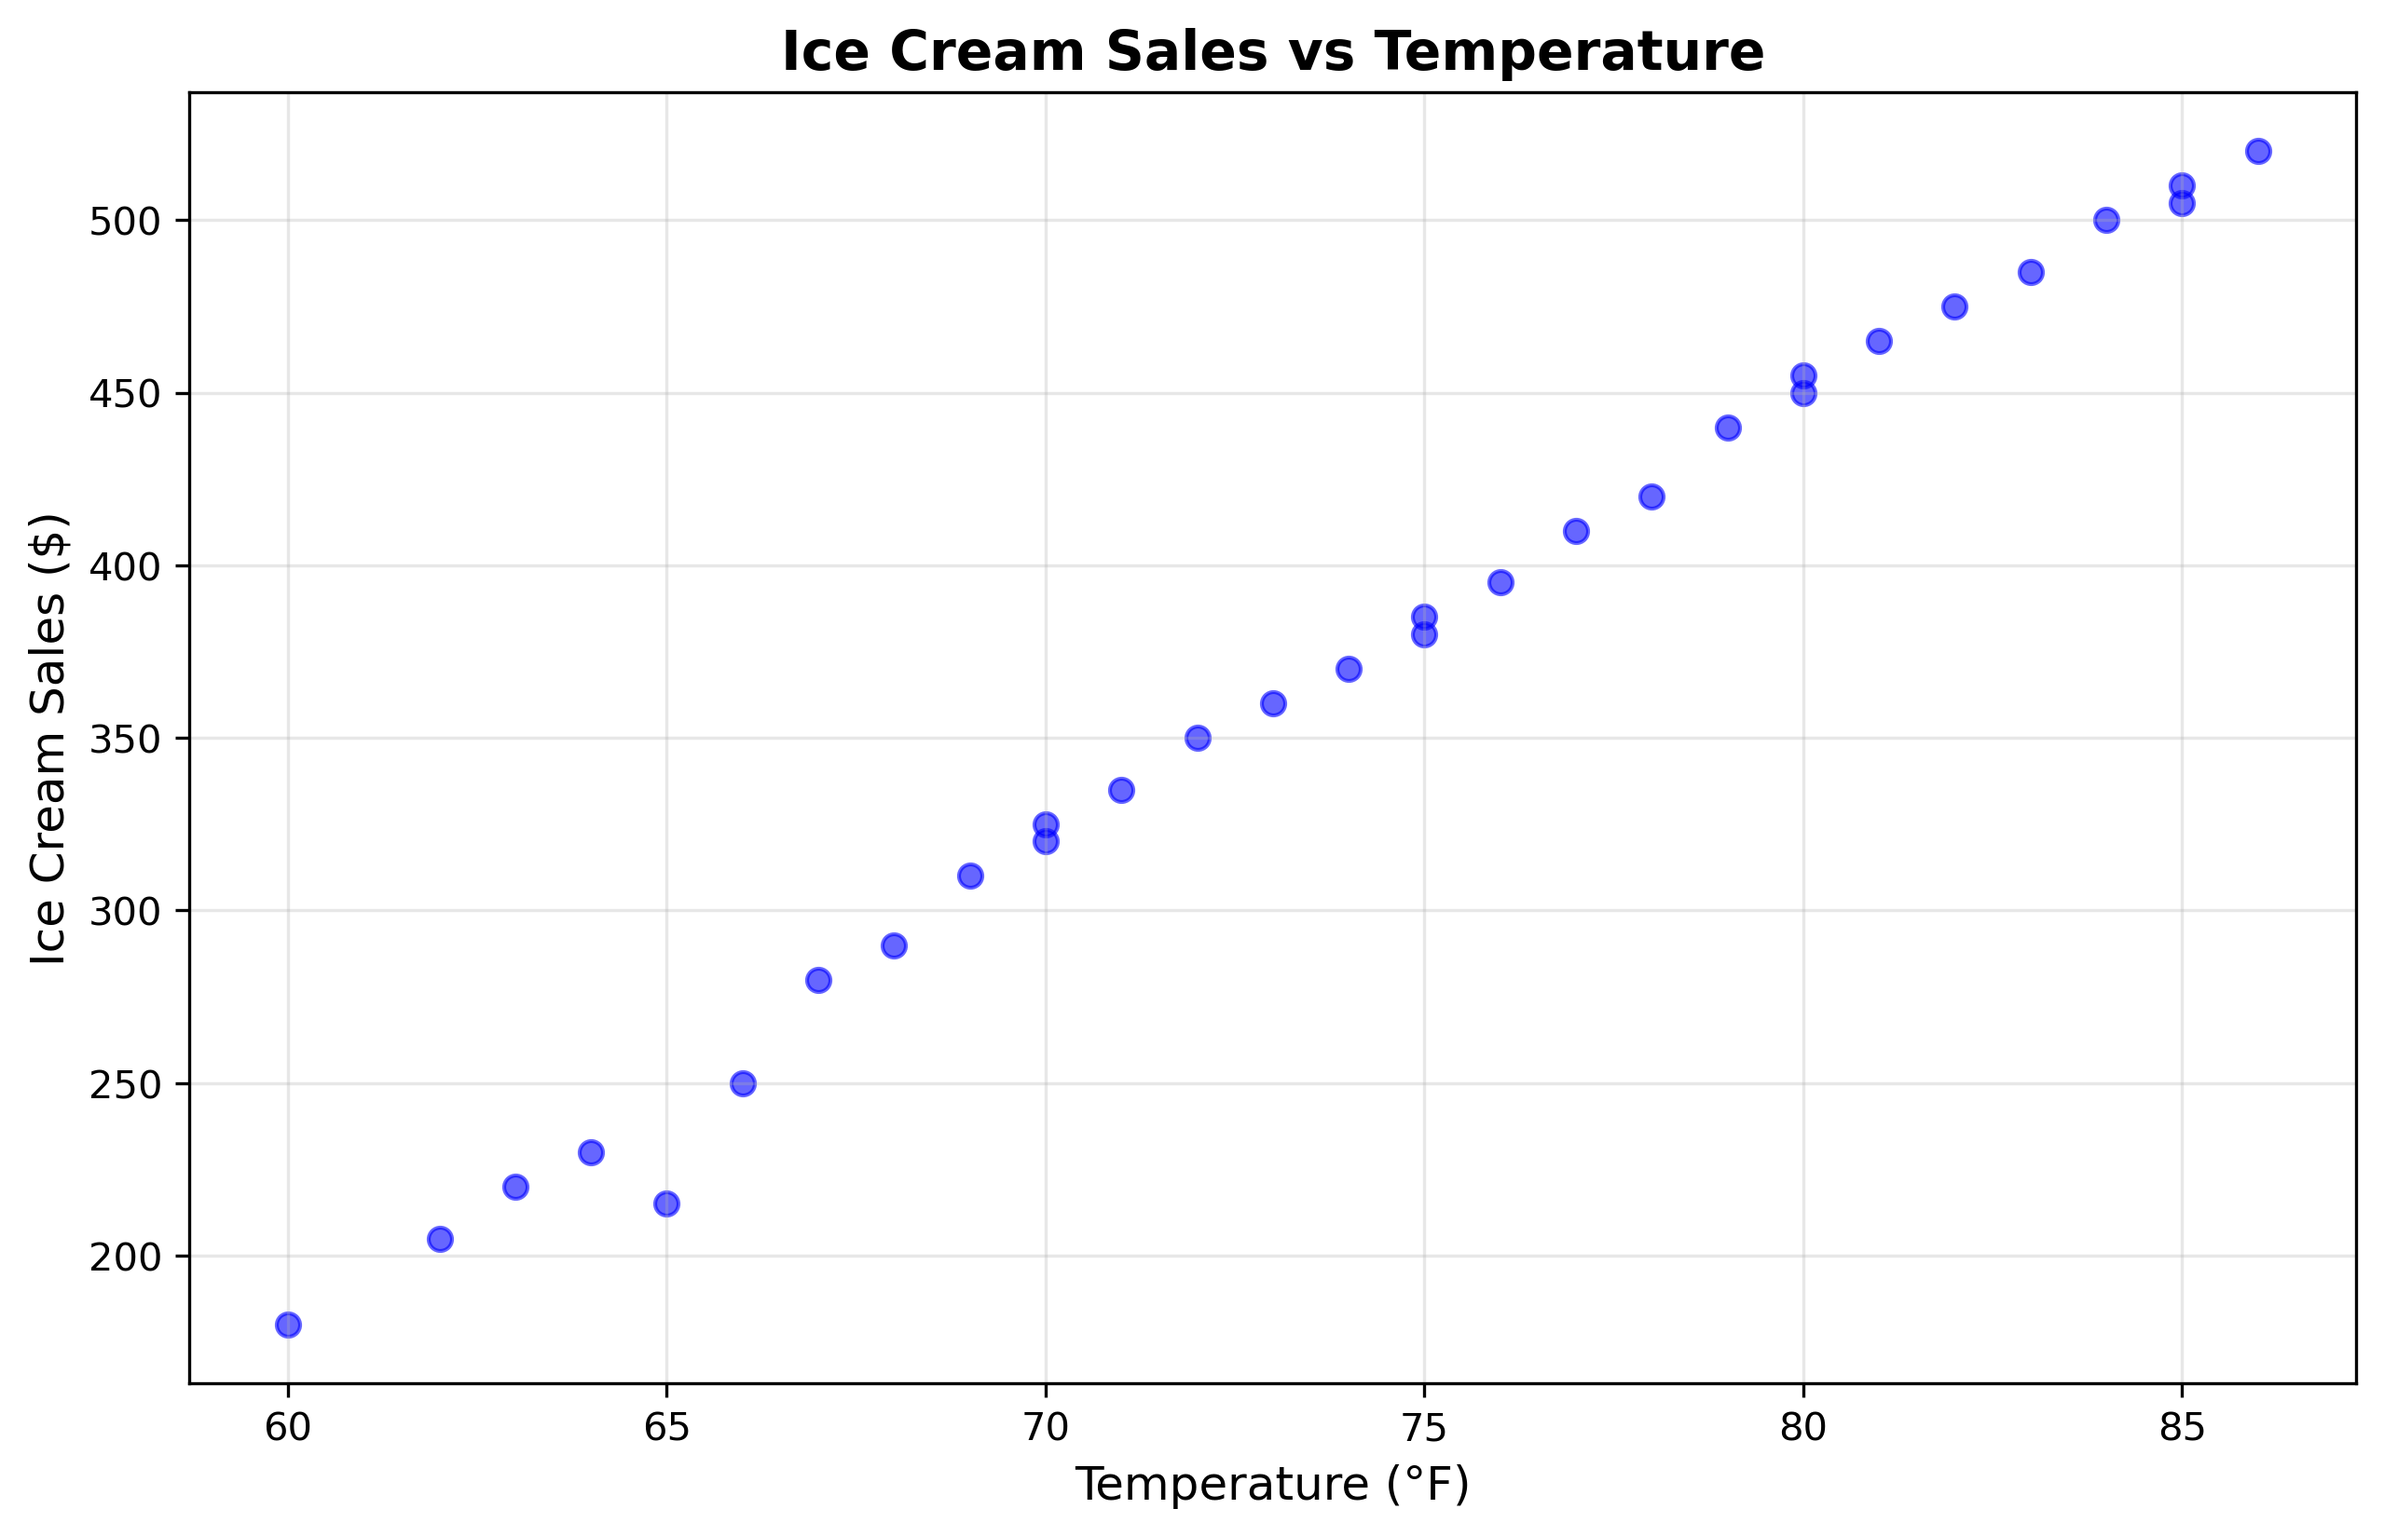
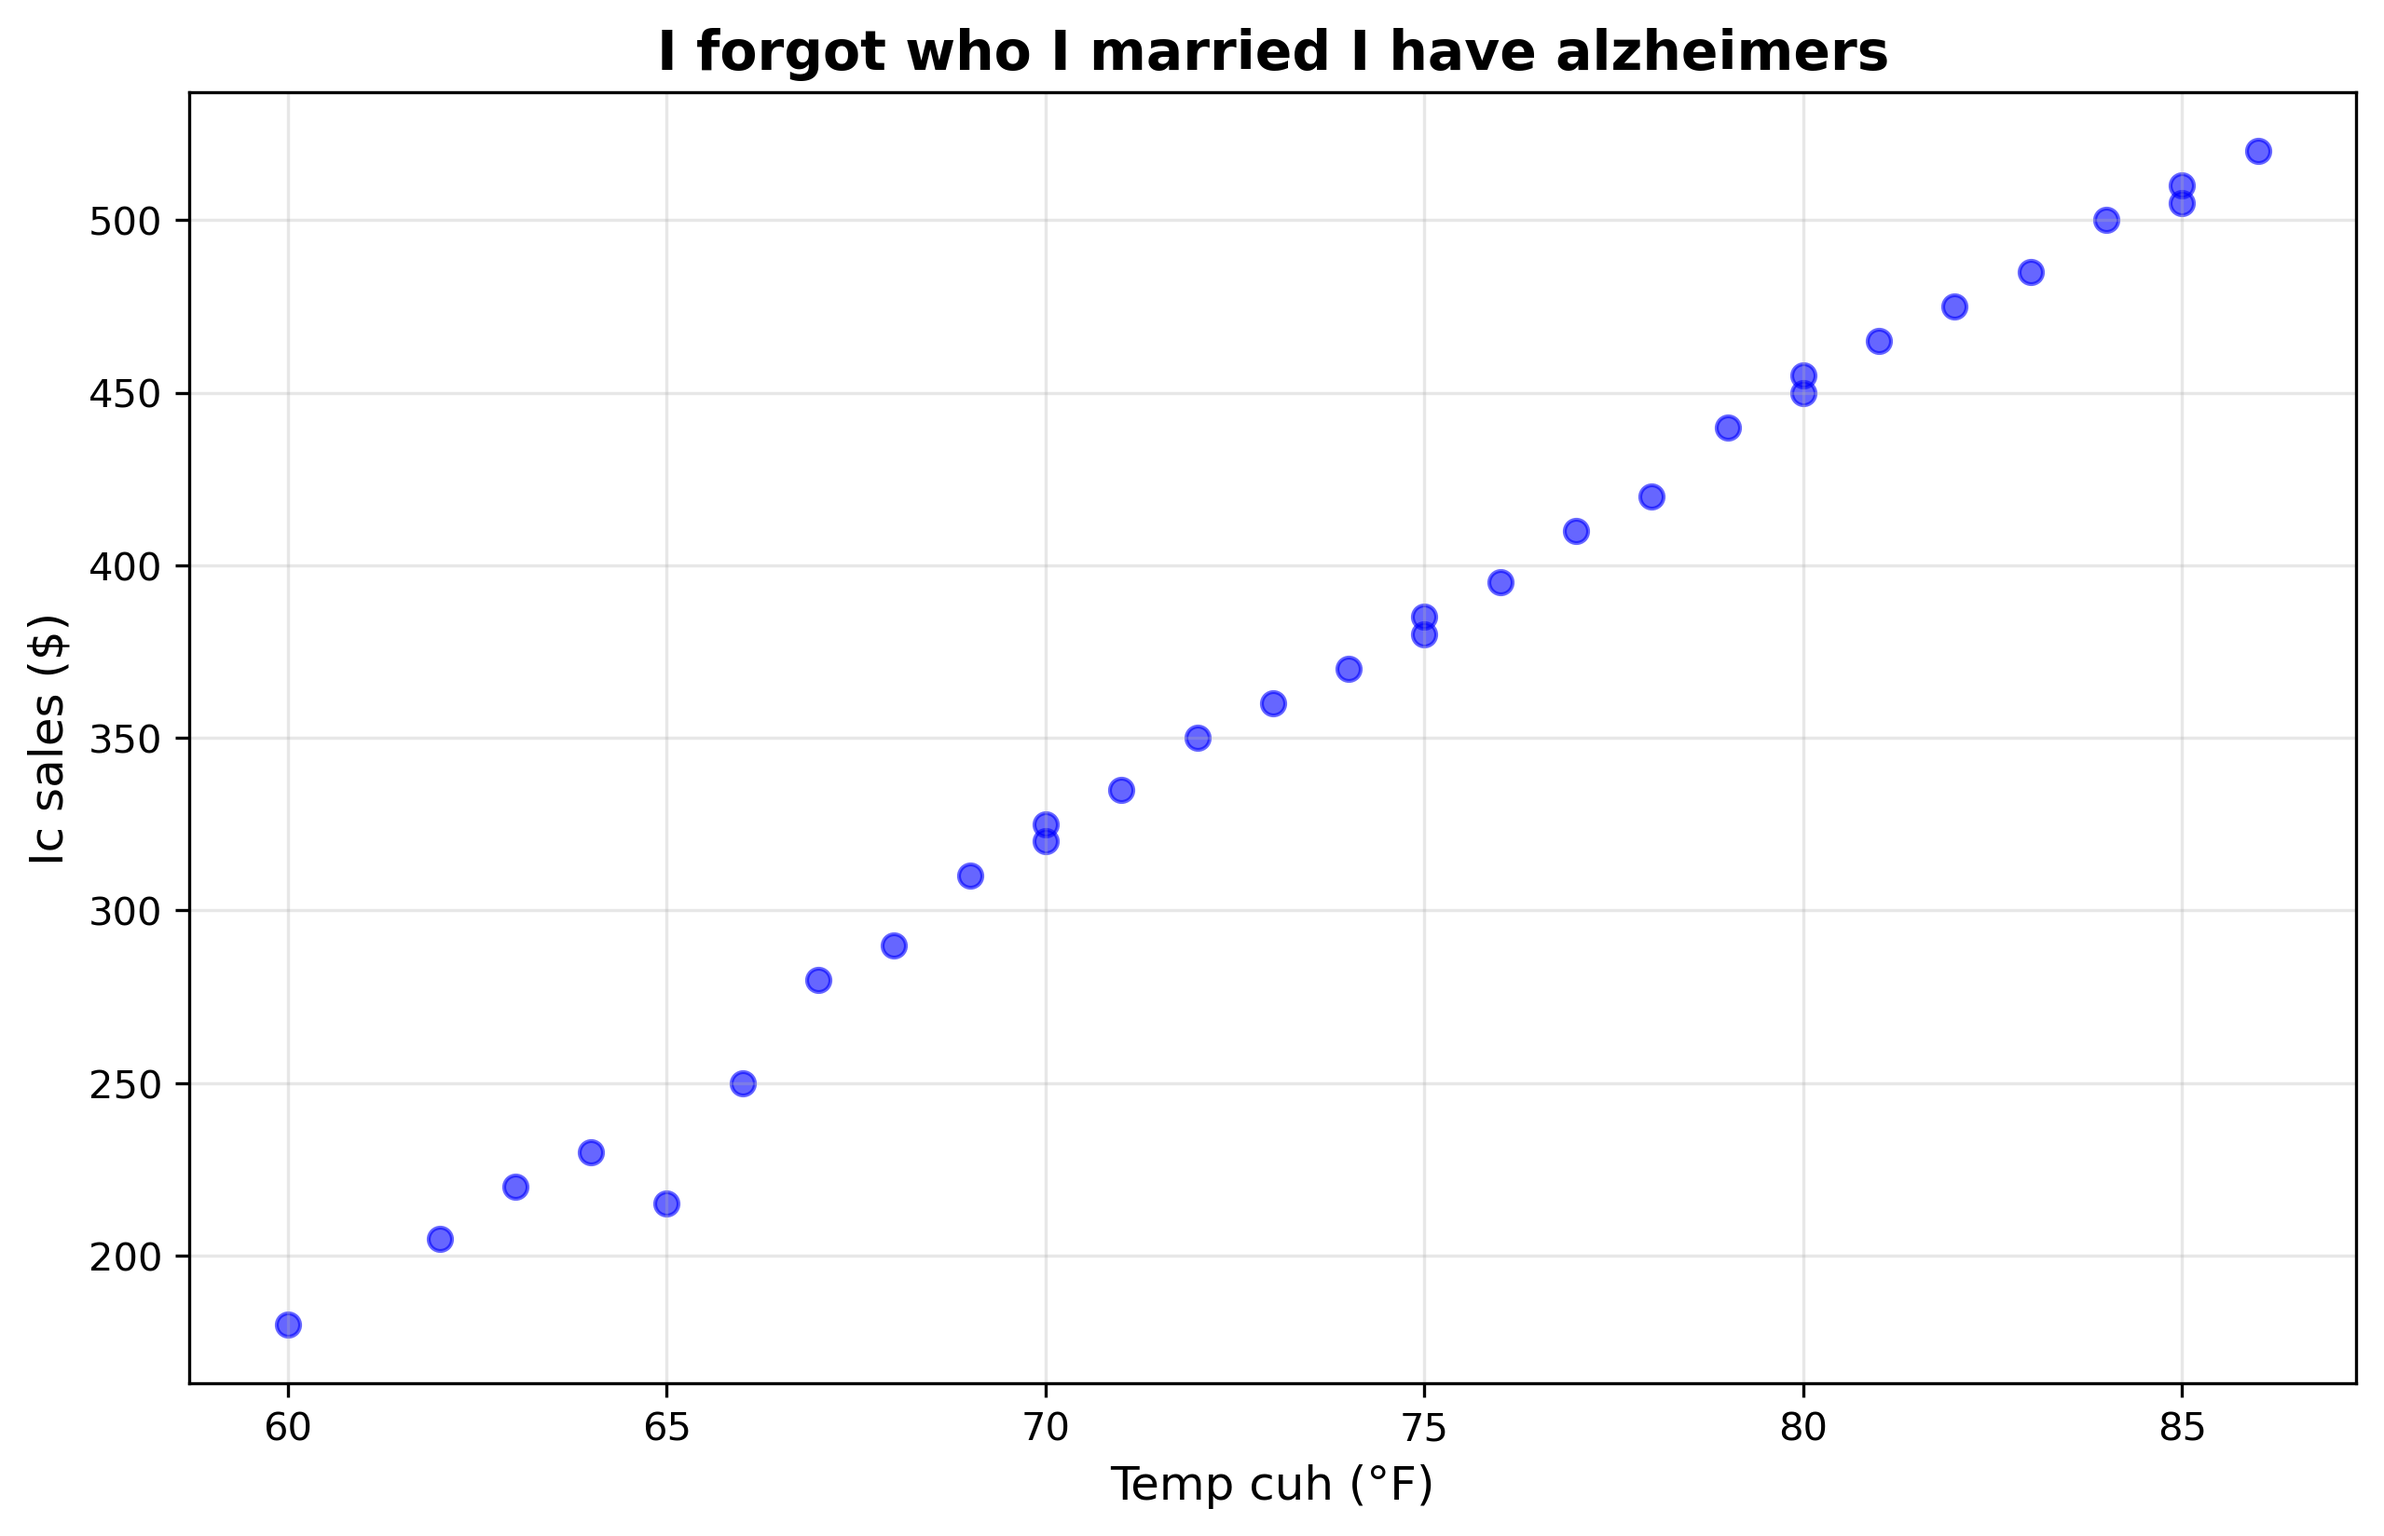
testing

Changed region(s): [[0.278, 0.0, 0.803, 0.0619], [0.0, 0.3402, 0.0309, 0.6186], [0.4633, 0.9588, 0.6177, 0.9897]]

diff --git a/ice_cream_example.py b/ice_cream_example.py
@@ -47,12 +47,12 @@ def create_scatter_plot(data):
         data: pandas DataFrame with Temperature and Sales columns
     """
     plt.figure(figsize=(10, 6))
-    plt.scatter(data['Temperature'], data['Sales'], color='blue', alpha=0.6)
-    plt.xlabel('Temperature (°F)', fontsize=12)
-    plt.ylabel('Ice Cream Sales ($)', fontsize=12)
-    plt.title('Ice Cream Sales vs Temperature', fontsize=14, fontweight='bold')
-    plt.grid(True, alpha=0.3)
-    plt.savefig('ice_cream_scatter.png', dpi=300, bbox_inches='tight')
+    plt.scatter(data['Temperature'], data['Sales'], color='blue', alpha=0.6) # x value, y value
+    plt.xlabel('Temp cuh (°F)', fontsize=12) 
+    plt.ylabel('Ic sales ($)', fontsize=12)
+    plt.title('I forgot who I married I have alzheimers', fontsize=14, fontweight='bold')
+    plt.grid(True, alpha=0.3) #grid inside of the graph
+    plt.savefig('ice_cream_scatter.png', dpi=300, bbox_inches='tight') #save as a png file
     print("\n✓ Scatter plot saved as 'ice_cream_scatter.png'")
     plt.show()
 
@@ -170,7 +170,7 @@ def visualize_results(X_train, y_train, X_test, y_test, predictions, model):
     
     plt.xlabel('Temperature (°F)', fontsize=12)
     plt.ylabel('Ice Cream Sales ($)', fontsize=12)
-    plt.title('Linear Regression: Ice Cream Sales Prediction', fontsize=14, fontweight='bold')
+    plt.title('Linear Regression: ic sales pred', fontsize=14, fontweight='bold')
     plt.legend()
     plt.grid(True, alpha=0.3)
     plt.savefig('ice_cream_predictions.png', dpi=300, bbox_inches='tight')

diff --git a/a6_part1_writeup.md b/a6_part1_writeup.md
@@ -1,7 +1,7 @@
 # Assignment 6 Part 1 - Writeup
 
-**Name:** _______________  
-**Date:** _______________
+**Name:** Aaron Mata  
+**Date:** 11/19/2025
 
 ---
 
@@ -10,7 +10,7 @@
 ### Question 1: R² Score Interpretation
 What does the R² score tell you about your model? What does it mean if R² is close to 1? What if it's close to 0?
 
-**YOUR ANSWER:**
+The R² tells me how fit is the line of best fit for a scattered plot. If it is close to 1, it means the relationship between the line of best fit and the dots on the scattered plot is really strong. If R² is close to 0, it means that the relationship between the line of best fi and the dots on the scattered plot is not strong, and most likely does not show the relationship between x and y on a graph, in short, not reliable to use as data.
 
 
 
